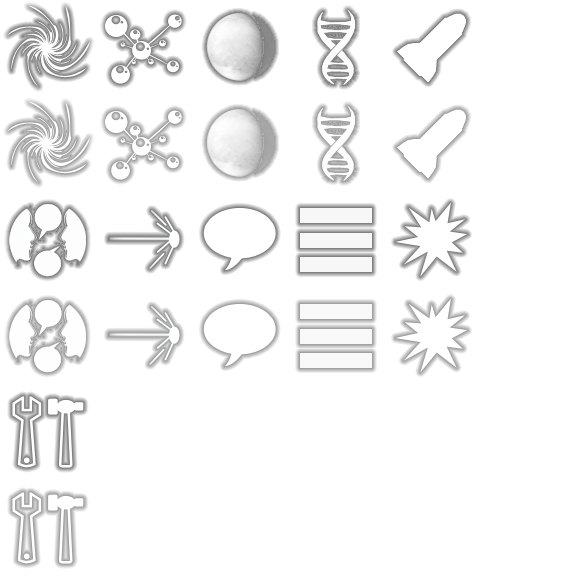
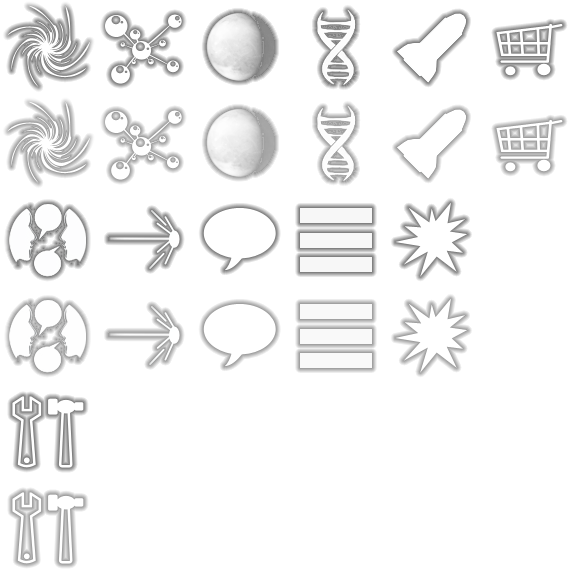
*мелкие доработки

Changed region(s): [[0.8438, 0.1875, 1.0, 0.3125], [0.8438, 0.0312, 1.0, 0.1562]]

diff --git a/Rania/src/com/game/rania/screen/part/SideBar.java b/Rania/src/com/game/rania/screen/part/SideBar.java
@@ -33,6 +33,7 @@ public class SideBar extends Group implements Part
   private Group              panel         = new Group();
   private PressedButton      btnMenu       = null;
   private PressedButton      btnChat       = null;
+  private PressedButton      btnEquip      = null;
 
   public Group               chat          = new Group();
   public boolean             chatVisible   = false;
@@ -70,6 +71,8 @@ public class SideBar extends Group implements Part
     mView.loadTexture("data/gui/icon_collect.png", RegionID.BTN_UI_CHANNEL_DOMAIN_ON, 288, 96, 96, 96, false);
     mView.loadTexture("data/gui/icon_collect.png", RegionID.BTN_UI_CHANNEL_PRIVATE_OFF, 0, 192, 96, 96, false);
     mView.loadTexture("data/gui/icon_collect.png", RegionID.BTN_UI_CHANNEL_PRIVATE_ON, 0, 288, 96, 96, false);
+    mView.loadTexture("data/gui/icon_collect.png", RegionID.BTN_UI_EQUIP_OFF, 480, 0, 96, 96, false);
+    mView.loadTexture("data/gui/icon_collect.png", RegionID.BTN_UI_EQUIP_ON, 480, 96, 96, 96, false);
     mView.loadTexture("data/gui/ui_back.png", RegionID.BTN_UI_BACK_OFF, 0, 0, 450, 100, false);
     mView.loadTexture("data/gui/ui_back.png", RegionID.BTN_UI_BACK_ON, 0, 100, 450, 100, false);
     mView.loadTexture("data/gui/ui_exit.png", RegionID.BTN_UI_EXIT_OFF, 0, 0, 450, 100, false);
@@ -149,7 +152,19 @@ public class SideBar extends Group implements Part
                                     editUser.setFocus();
                                   }
                                 });
-
+    btnEquip = new PressedButton(RegionID.BTN_UI_EQUIP_OFF,
+                                RegionID.BTN_UI_EQUIP_ON,
+                                halfWidth * 0.9396f, -halfHeight * 0.5000f,
+                                new TouchAction()
+                                {
+                                  @Override
+                                  public void execute(boolean touch)
+                                  {
+                                    
+                                    
+                                  }
+                                });
+    
     fieldChat = new ChatList(RegionID.FIELD_CHAT,
                              -halfWidth + mView.getTextureRegion(RegionID.FIELD_CHAT).getRegionWidth() * 0.5f,
                              -halfHeight + mView.getTextureRegion(RegionID.FIELD_CHAT).getRegionHeight() * 0.5f,
@@ -278,6 +293,7 @@ public class SideBar extends Group implements Part
 
     panel.addElement(btnMenu);
     panel.addElement(btnChat);
+    panel.addElement(btnEquip);
     addElement(panel);
 
     chat.addElement(fieldChat);

diff --git a/Rania/src/com/game/rania/model/element/RegionID.java b/Rania/src/com/game/rania/model/element/RegionID.java
@@ -31,7 +31,7 @@ public enum RegionID
   BTN_UI_MENU_ON, BTN_UI_CHAT_OFF, BTN_UI_CHAT_ON, BTN_UI_EXIT_OFF, BTN_UI_EXIT_ON, BTN_UI_BACK_OFF, BTN_UI_BACK_ON, FIELD_CHAT, EDIT_CHAT,
   BTN_UI_CHANNEL_MAIN_ON, BTN_UI_CHANNEL_MAIN_OFF, BTN_UI_CHANNEL_LOCATION_ON, BTN_UI_CHANNEL_LOCATION_OFF, BTN_UI_CHANNEL_PLANET_ON,
   BTN_UI_CHANNEL_PLANET_OFF, BTN_UI_CHANNEL_DOMAIN_ON, BTN_UI_CHANNEL_DOMAIN_OFF, BTN_UI_CHANNEL_PRIVATE_ON, BTN_UI_CHANNEL_PRIVATE_OFF,
-  BTN_UI_SEND_OFF, BTN_UI_SEND_ON, INFO,
+  BTN_UI_SEND_OFF, BTN_UI_SEND_ON, INFO, BTN_UI_EQUIP_OFF, BTN_UI_EQUIP_ON,   
 
   // skills
   LASER_SKILL, ROCKET_SKILL, BFG_SKILL, REPAIR_KIT_SKILL,

diff --git a/Rania/src/com/game/rania/model/SpaceShip.java b/Rania/src/com/game/rania/model/SpaceShip.java
@@ -223,13 +223,13 @@ public class SpaceShip extends Object
 
     if (fuelbag != null)
     {
-      maxFuel = (int) fuelbag.item.volume * fuelbag.item.compress / 100;
+      maxFuel = (int) fuelbag.item.volume * fuelbag.item.compress;
       fuel.num = fuel.num > maxFuel ? maxFuel : fuel.num;
     }
 
     if (engine != null)
     {
-      maxSpeed = (float) engine.item.power / 10;
+      maxSpeed = (float) engine.item.power;
     }
   }
 

diff --git a/Rania/src/com/game/rania/model/ammunition/Repair.java b/Rania/src/com/game/rania/model/ammunition/Repair.java
@@ -16,6 +16,7 @@ public class Repair extends Ammunition
     this.attacker = attacker;
     this.target = target;
     color.set(repairColor);
+    zIndex = 110;
     vAlign = Align.CENTER;
   }
 
